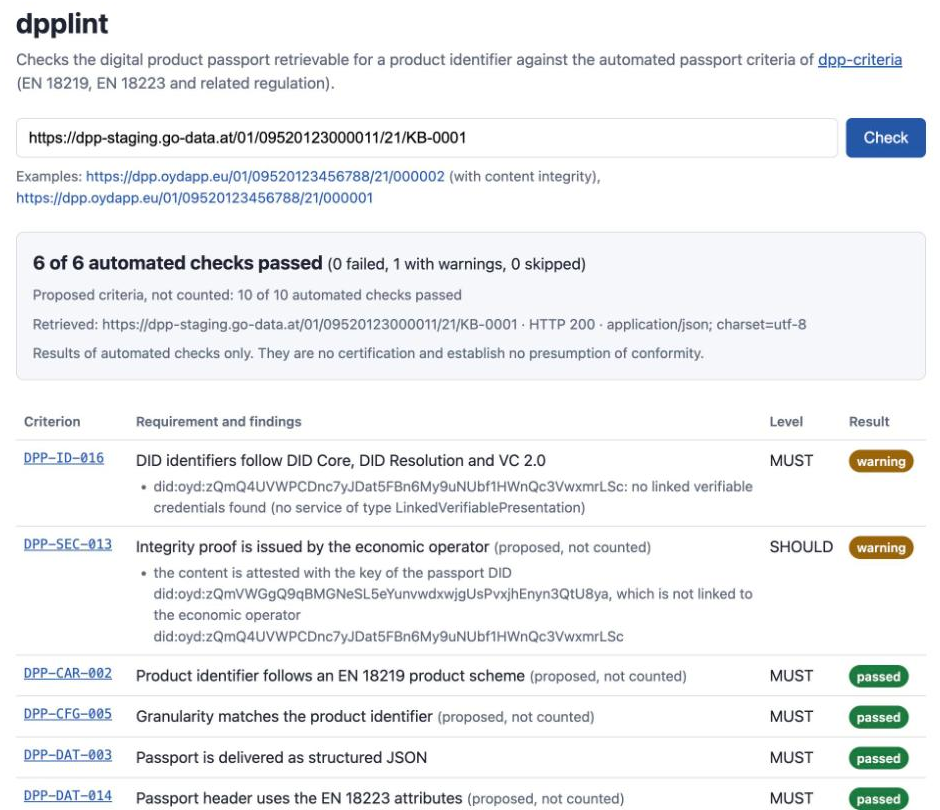
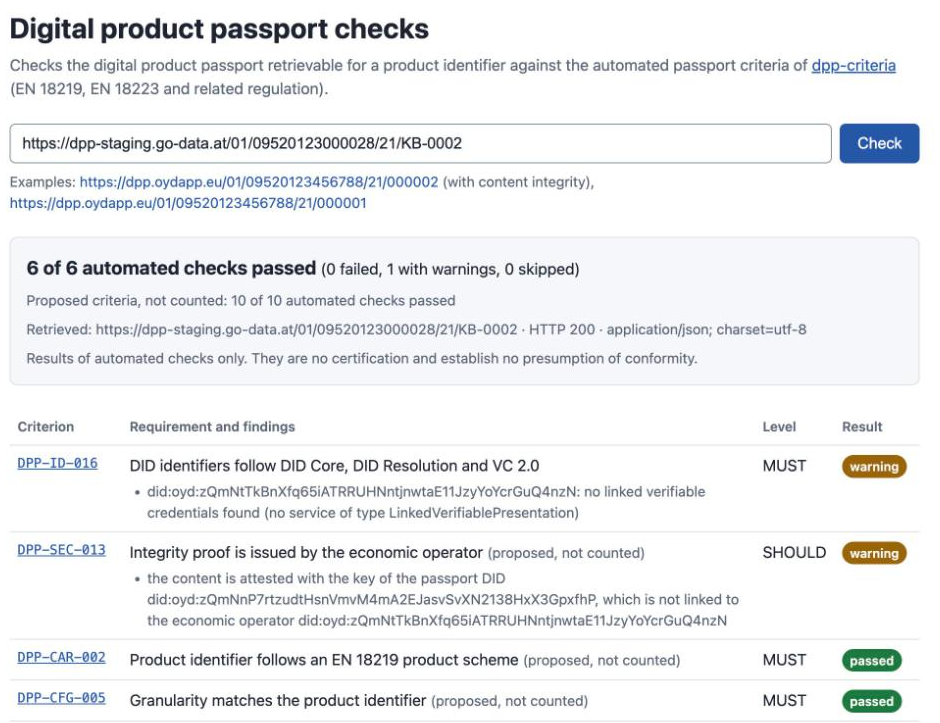
Getting started: linter screenshot for the KB-0002 example

diff --git a/_articles/getting-started.md b/_articles/getting-started.md
@@ -155,7 +155,7 @@ The passport is now live. Open the product identifier in any browser – a phone
 
 Then paste the same link into the [DPP Linter](https://dpplint.ownyourdata.eu/). It fetches the passport the way any reader does and checks it against the criteria derived from EN 18219, EN 18223 and the regulations.
 
-{% include figure.html src="/assets/img/screens/getting-started-linter.png" alt="Screenshot of the DPP Linter for an earlier example passport of the same kind, KB-0001: '6 of 6 automated checks passed (0 failed, 1 with warnings, 0 skipped)', proposed criteria 10 of 10 passed, retrieved with HTTP 200 as JSON. Warnings for DPP-ID-016, no linked verifiable credentials for the operator's identity, and DPP-SEC-013, content attested with the key of the passport identifier rather than the operator's; DPP-CAR-002, DPP-CFG-005, DPP-DAT-003 and DPP-DAT-014 passed." caption="All automated checks passed. Both warnings concern the operator's identity, not the content of the passport." screenshot=true width="940" height="810" %}
+{% include figure.html src="/assets/img/screens/getting-started-linter.png" alt="Screenshot of the DPP Linter for https://dpp-staging.go-data.at/01/09520123000028/21/KB-0002: '6 of 6 automated checks passed (0 failed, 1 with warnings, 0 skipped)', proposed criteria 10 of 10 passed, retrieved with HTTP 200 as JSON. Warnings for DPP-ID-016, no linked verifiable credentials for the operator's identity, and DPP-SEC-013, content attested with the key of the passport identifier rather than the operator's; DPP-CAR-002 and DPP-CFG-005 passed." caption="All automated checks passed. Both warnings concern the operator's identity, not the content of the passport." screenshot=true width="940" height="723" %}
 
 The warnings are expected for now. **DPP-ID-016:** the operator's identity is self-issued and carries no credentials from a trusted body yet – one of the points [still open]({{ '/reference-architecture/' | relative_url }}) in the CIRPASS-2 comparison. **DPP-SEC-013**, a proposed criterion: the content is attested with the key of the passport identifier, which is not yet linked to the operator's identity.
 
